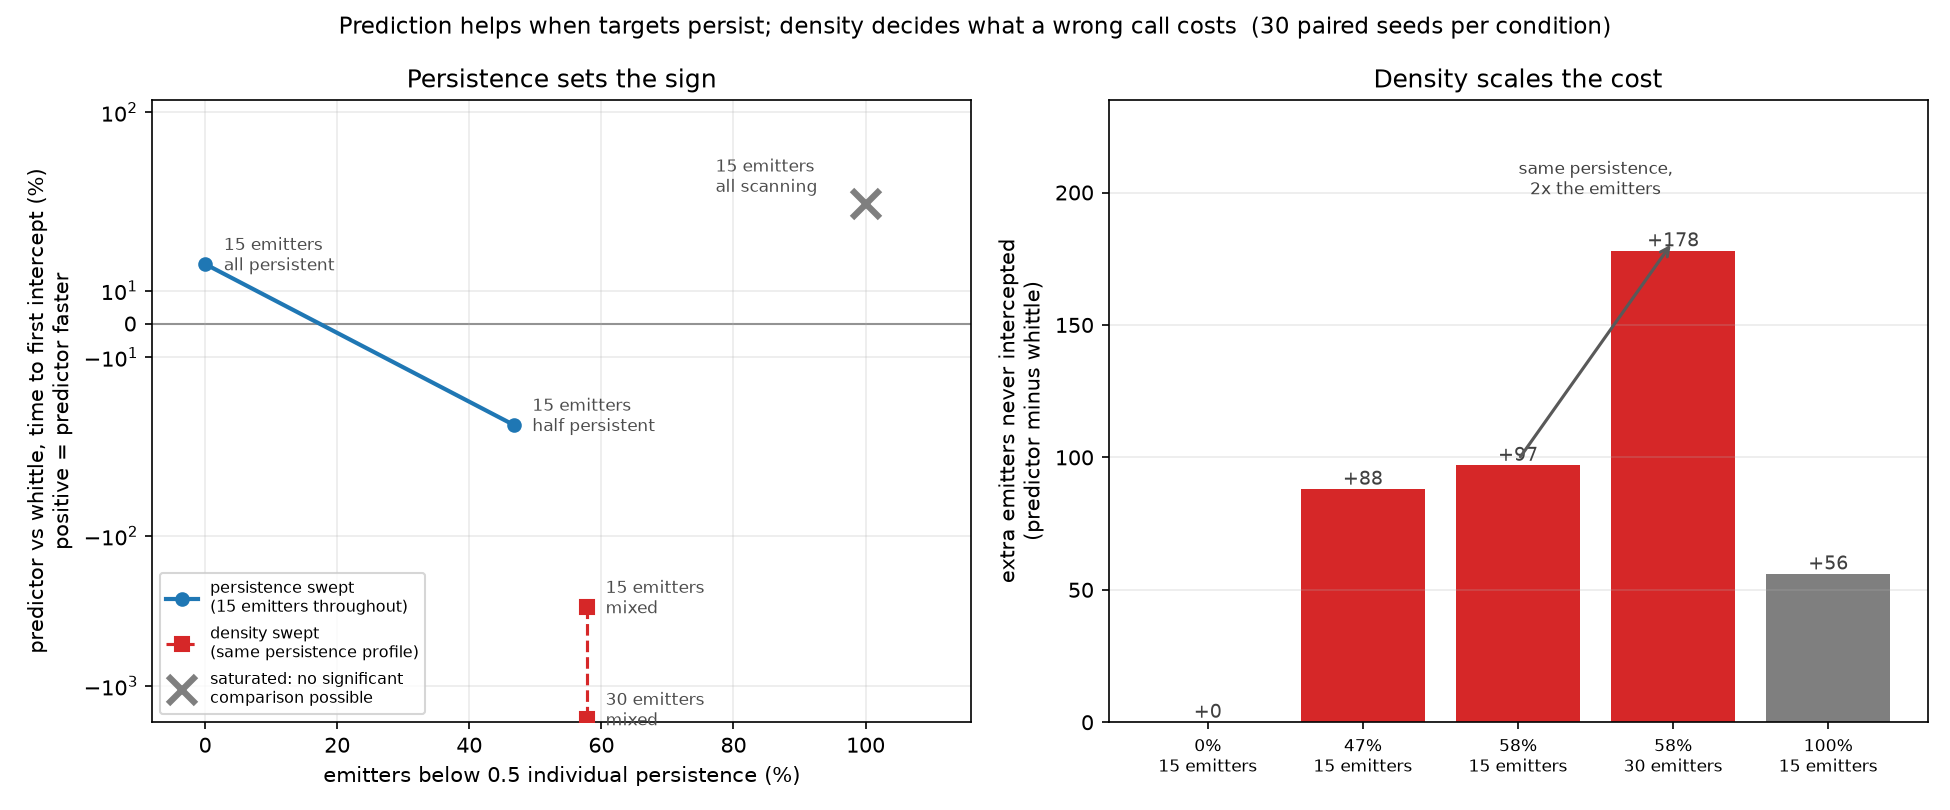
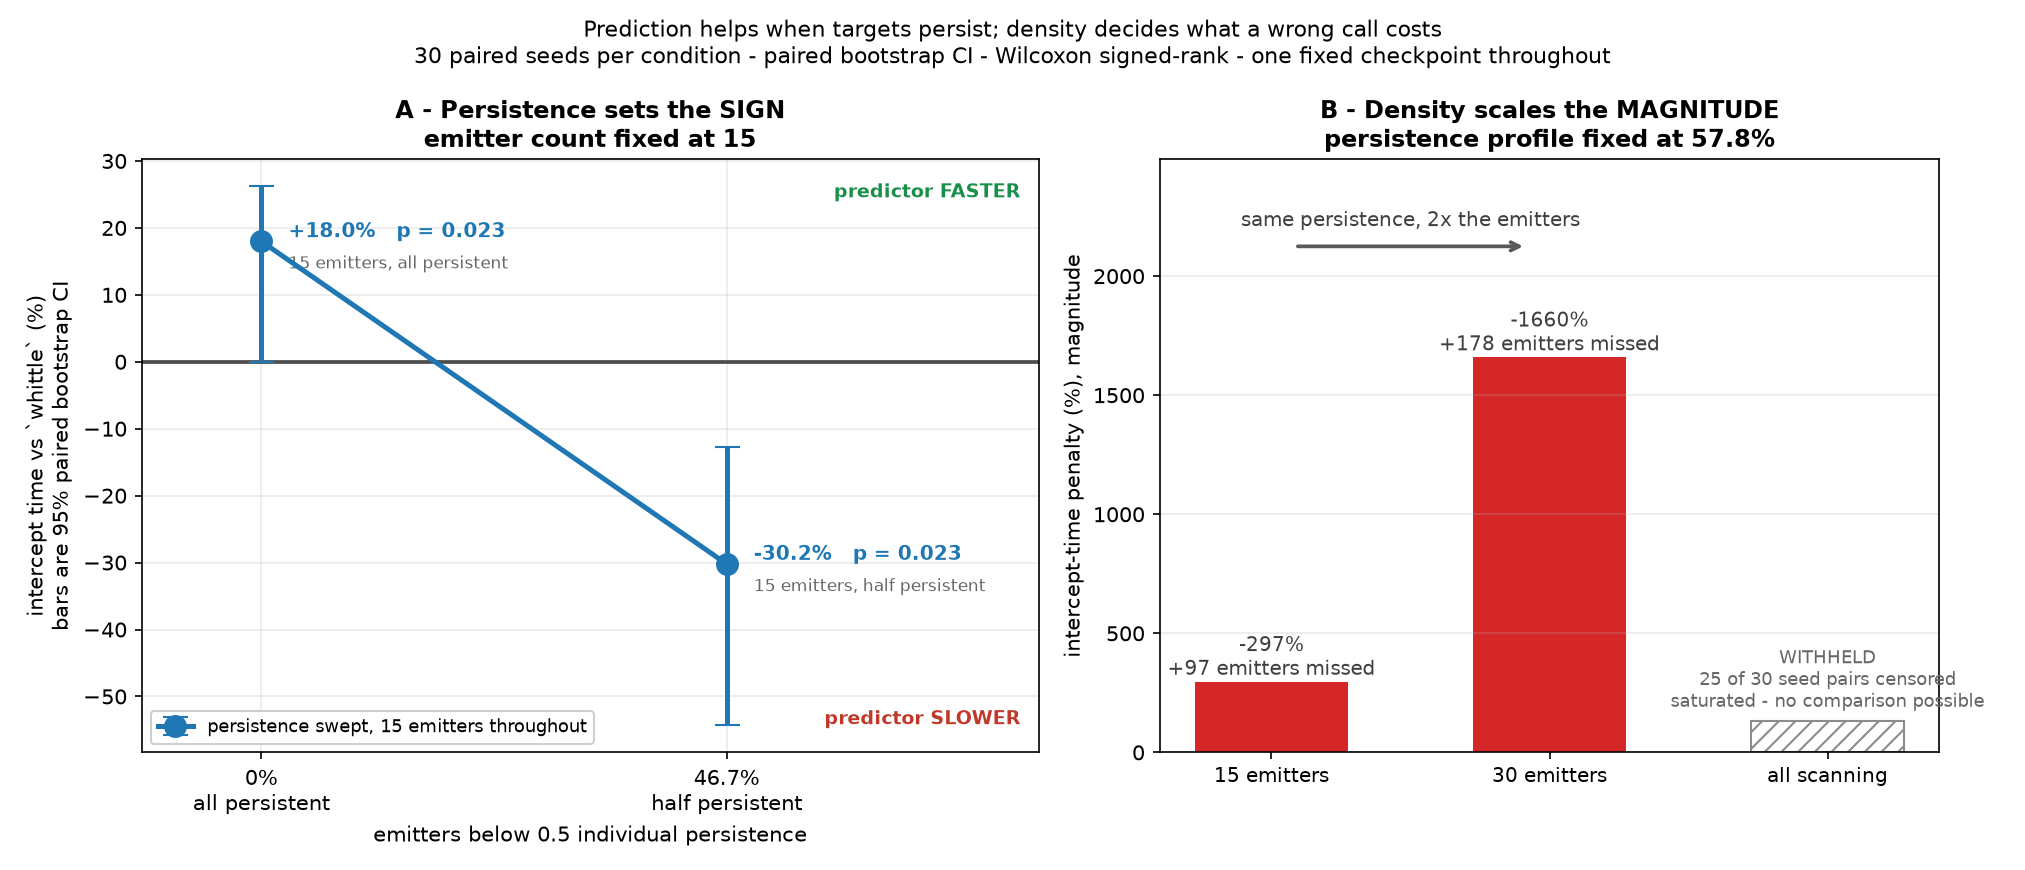
Redraw persistence so the two findings cannot be read as one trend
The old figure put both interventions on a single axis with the saturated
condition among them, which invited exactly the reading the experiment exists
to rule out: a line through two points that differ in emitter count rather
than persistence.

Panel A is now the SIGN alone -- persistence swept, emitter count fixed at 15
-- and panel B the MAGNITUDE alone, emitter count doubled with the persistence
profile fixed. Neither panel contains a point from the other intervention.

Panel A carries the paired bootstrap intervals and Wilcoxon p-values on the
points rather than in the caption, and labels the half-planes "predictor
FASTER" and "predictor SLOWER" so the zero crossing reads as a change of sign
rather than a change of number. The intervals are the honest part: the
all-persistent lower bound touches zero, and drawing it says so.

The saturated condition appears in neither trend. It is a hatched placeholder
labelled "25 of 30 seed pairs censored", because there is no comparison to put
on an axis and the five survivors are the seeds where the predictor happened
to get lucky -- plotting them as a value would invert the apparent sign.

Several passes went into label placement. The 0% point and its annotations
occupy the upper left, so the half-plane labels are right-anchored; the legend
moved off the line it describes; and the density arrow is routed above both
bars because a diagonal between their tops cuts through the value labels that
are the panel's entire content.

diff --git a/scripts/persistence_figure.py b/scripts/persistence_figure.py
@@ -130,82 +130,115 @@ def deltas(d: dict) -> list[dict]:
 
 
 def plot(rows: list[dict], out: Path) -> None:
-    """Two panels, one per intervention.
+    """One panel per finding, so the two cannot be read as one trend.
 
-    The persistence series and the density series are drawn as separate
-    objects on purpose. Joining them would put a line through two points that
-    differ in emitter count rather than persistence, which is exactly the
-    confound the experiment was built to break.
+    Panel A is the **sign**: persistence swept with emitter count fixed.
+    Panel B is the **magnitude**: emitter count doubled with the persistence
+    profile fixed. An earlier version drew both on one axis, which invited a
+    reader to run a line through two points that differ in emitter count
+    rather than persistence -- the exact confound the experiment exists to
+    break.
+
+    The saturated condition appears in neither trend. It is a hatched
+    placeholder labelled with its censoring, because at 25 of 30 pairs
+    censored there is no comparison to put on an axis, and the five surviving
+    pairs are the seeds where the predictor happened to get lucky.
+
+    Confidence intervals and p-values are drawn into the panels rather than
+    left to the caption, so the figure cannot be skimmed into a stronger
+    claim than the data supports.
     """
     import matplotlib
     matplotlib.use("Agg")
     import matplotlib.pyplot as plt
 
-    fig, (ax1, ax2) = plt.subplots(1, 2, figsize=(13, 5.4))
+    fig, (ax1, ax2) = plt.subplots(1, 2, figsize=(13.5, 5.8),
+                                   gridspec_kw={"width_ratios": [1.15, 1]})
     by = {r["key"]: r for r in rows}
-    # Intervention 1: 15 emitters throughout, composition swung.
     pers = [by[k] for k in ("pairHI-B p=1.0 persist1.0", "pairMD-B p=0.5 persist.99")
             if k in by]
-    satu = [r for r in rows if r["saturated"]]
-    # Intervention 2: persistence profile identical, count doubled.
     dens = sorted((r for r in rows if abs(r["frac"] - 0.578) < 1e-6),
-                  key=lambda r: r["label"])
+                  key=lambda r: int(r["label"].split()[0]))
+    satu = next((r for r in rows if r["saturated"]), None)
 
-    ax1.axhline(0, color="0.55", lw=1, zorder=1)
-    ax1.plot([r["frac"] * 100 for r in pers], [r["d_ttfi"] for r in pers],
-             "-o", color="#1f77b4", lw=2, zorder=3,
-             label="persistence swept\n(15 emitters throughout)")
-    if len(dens) == 2:
-        ax1.plot([r["frac"] * 100 for r in dens], [r["d_ttfi"] for r in dens],
-                 "s--", color="#d62728", lw=1.5, ms=7, zorder=3,
-                 label="density swept\n(same persistence profile)")
-    for r in satu:
-        ax1.plot(r["frac"] * 100, r["d_ttfi"], "x", ms=13, mew=3,
-                 color="#7f7f7f", zorder=3,
-                 label="saturated: no significant\ncomparison possible")
-    for r in rows:
-        dx, dy = (-72, 6) if r["saturated"] else (9, -3)
-        ax1.annotate(r["label"], (r["frac"] * 100, r["d_ttfi"]),
-                     textcoords="offset points", xytext=(dx, dy), fontsize=8,
-                     color="0.3")
-    ax1.set_xlim(-8, 116)
-    ax1.set_xlabel("emitters below 0.5 individual persistence (%)")
-    ax1.set_ylabel("predictor vs whittle, time to first intercept (%)\n"
-                   "positive = predictor faster")
-    ax1.set_title("Persistence sets the sign")
-    ax1.set_yscale("symlog", linthresh=50)
-    ax1.legend(fontsize=7.5, loc="lower left")
+    # ---- A: the sign -----------------------------------------------------
+    ax1.axhline(0, color="0.3", lw=1.8, zorder=2)
+    xs = [r["frac"] * 100 for r in pers]
+    ys = [r["delta_pct"] for r in pers]
+    lo = [y - r["ci"][0] for y, r in zip(ys, pers, strict=True)]
+    hi = [r["ci"][1] - y for y, r in zip(ys, pers, strict=True)]
+    ax1.errorbar(xs, ys, yerr=[lo, hi], fmt="-o", color="#1f77b4", lw=2.4,
+                 ms=10, capsize=6, zorder=3,
+                 label="persistence swept, 15 emitters throughout")
+    for x, y, r in zip(xs, ys, pers, strict=True):
+        ax1.annotate(f"{y:+.1f}%   p = {r['p']:.3f}", (x, y),
+                     textcoords="offset points", xytext=(13, 2), fontsize=9.5,
+                     color="#1f77b4", fontweight="bold")
+        ax1.annotate(r["label"].replace("\n", ", "), (x, y),
+                     textcoords="offset points", xytext=(13, -13), fontsize=8,
+                     color="0.4")
+    # Right-anchored: the 0% point and its labels occupy the upper left.
+    ax1.annotate("predictor FASTER", (0.98, 0.96), xycoords="axes fraction",
+                 fontsize=9, color="#1a8f4a", va="top", ha="right",
+                 fontweight="bold")
+    ax1.annotate("predictor SLOWER", (0.98, 0.04), xycoords="axes fraction",
+                 fontsize=9, color="#c0392b", va="bottom", ha="right",
+                 fontweight="bold")
+    ax1.set_xlim(-12, 78)
+    ax1.set_xticks([0, 46.7])
+    ax1.set_xticklabels(["0%\nall persistent", "46.7%\nhalf persistent"])
+    ax1.set_xlabel("emitters below 0.5 individual persistence")
+    ax1.set_ylabel("intercept time vs `whittle` (%)\nbars are 95% paired bootstrap CI")
+    ax1.set_title("A - Persistence sets the SIGN\nemitter count fixed at 15",
+                  fontsize=11.5, fontweight="bold")
+    ax1.legend(fontsize=8.5, loc="lower left", framealpha=0.95)
     ax1.grid(alpha=0.25)
 
-    # Panel B ordered by persistence then emitter count, so the density pair
-    # sits adjacent and the comparison is visible without reading labels.
-    order = sorted(rows, key=lambda r: (r["frac"], int(r["label"].split()[0])))
-    xs = np.arange(len(order))
-    cols = ["#7f7f7f" if r["saturated"] else "#d62728" for r in order]
-    bars = ax2.bar(xs, [r["d_missed"] for r in order], color=cols)
-    for b, r in zip(bars, order, strict=True):
-        ax2.annotate(f"{r['d_missed']:+d}", (b.get_x() + b.get_width() / 2,
-                                             r["d_missed"]),
-                     ha="center", va="bottom", fontsize=9, color="0.25")
-    ax2.set_xticks(xs)
-    ax2.set_xticklabels([f"{r['frac'] * 100:.0f}%\n{r['label'].splitlines()[0]}"
-                         for r in order], fontsize=8)
-    ax2.set_ylabel("extra emitters never intercepted\n(predictor minus whittle)")
-    ax2.set_title("Density scales the cost")
+    # ---- B: the magnitude ------------------------------------------------
+    labels = [f"{int(r['label'].split()[0])} emitters" for r in dens]
+    vals = [abs(r["delta_pct"]) for r in dens]
+    miss = [r["d_missed"] for r in dens]
+    if satu:
+        labels.append("all scanning")
+    xpos = np.arange(len(labels))
+    bars = ax2.bar(xpos[:len(vals)], vals, color="#d62728", width=0.55)
+    for b, v, m in zip(bars, vals, miss, strict=True):
+        ax2.annotate(f"-{v:.0f}%\n{m:+d} emitters missed",
+                     (b.get_x() + b.get_width() / 2, v), ha="center",
+                     va="bottom", fontsize=9.5, color="0.25")
+    if satu:
+        # Deliberately not a value: there is no comparison to plot. The bar is
+        # a placeholder whose only job is to say why this condition is absent.
+        ax2.bar([xpos[-1]], [max(vals) * 0.08], color="none", edgecolor="0.55",
+                hatch="///", width=0.55)
+        ax2.annotate(f"WITHHELD\n{satu['n_censored']} of "
+                     f"{satu['n_censored'] + satu['n_paired']} seed pairs "
+                     f"censored\nsaturated - no comparison possible",
+                     (xpos[-1], max(vals) * 0.10), ha="center", va="bottom",
+                     fontsize=8.5, color="0.4")
+    ax2.set_xticks(xpos)
+    ax2.set_xticklabels(labels, fontsize=9.5)
+    ax2.set_ylabel("intercept-time penalty (%), magnitude")
+    ax2.set_title("B - Density scales the MAGNITUDE\n"
+                  "persistence profile fixed at 57.8%",
+                  fontsize=11.5, fontweight="bold")
+    ax2.set_ylim(0, max(vals) * 1.5)
     ax2.grid(alpha=0.25, axis="y")
-    same = [i for i, r in enumerate(order) if abs(r["frac"] - 0.578) < 1e-6]
-    if len(same) == 2:
-        lo, hi = same
-        top = max(order[lo]["d_missed"], order[hi]["d_missed"])
-        ax2.annotate("", xy=(hi, order[hi]["d_missed"] * 1.02),
-                     xytext=(lo, order[lo]["d_missed"] * 1.02),
-                     arrowprops={"arrowstyle": "->", "color": "0.35", "lw": 1.5})
-        ax2.text((lo + hi) / 2, top * 1.12, "same persistence,\n2x the emitters",
-                 ha="center", fontsize=8, color="0.25")
-    ax2.set_ylim(0, max(r["d_missed"] for r in order) * 1.32)
+    if len(vals) == 2:
+        # Routed above both bars. A diagonal drawn between their tops cuts
+        # straight through the value labels, which are the reason the panel
+        # exists at all.
+        top = max(vals) * 1.28
+        ax2.annotate("", xy=(0.92, top), xytext=(0.08, top),
+                     arrowprops={"arrowstyle": "->", "color": "0.35", "lw": 1.8})
+        ax2.text(0.5, top * 1.04, "same persistence, 2x the emitters",
+                 ha="center", fontsize=9.5, color="0.25")
 
     fig.suptitle("Prediction helps when targets persist; density decides what a "
-                 "wrong call costs  (30 paired seeds per condition)", fontsize=11)
+                 "wrong call costs\n"
+                 "30 paired seeds per condition - paired bootstrap CI - "
+                 "Wilcoxon signed-rank - one fixed checkpoint throughout",
+                 fontsize=10.5)
     fig.tight_layout()
     fig.savefig(out, dpi=150)
     print(f"wrote {out}")
